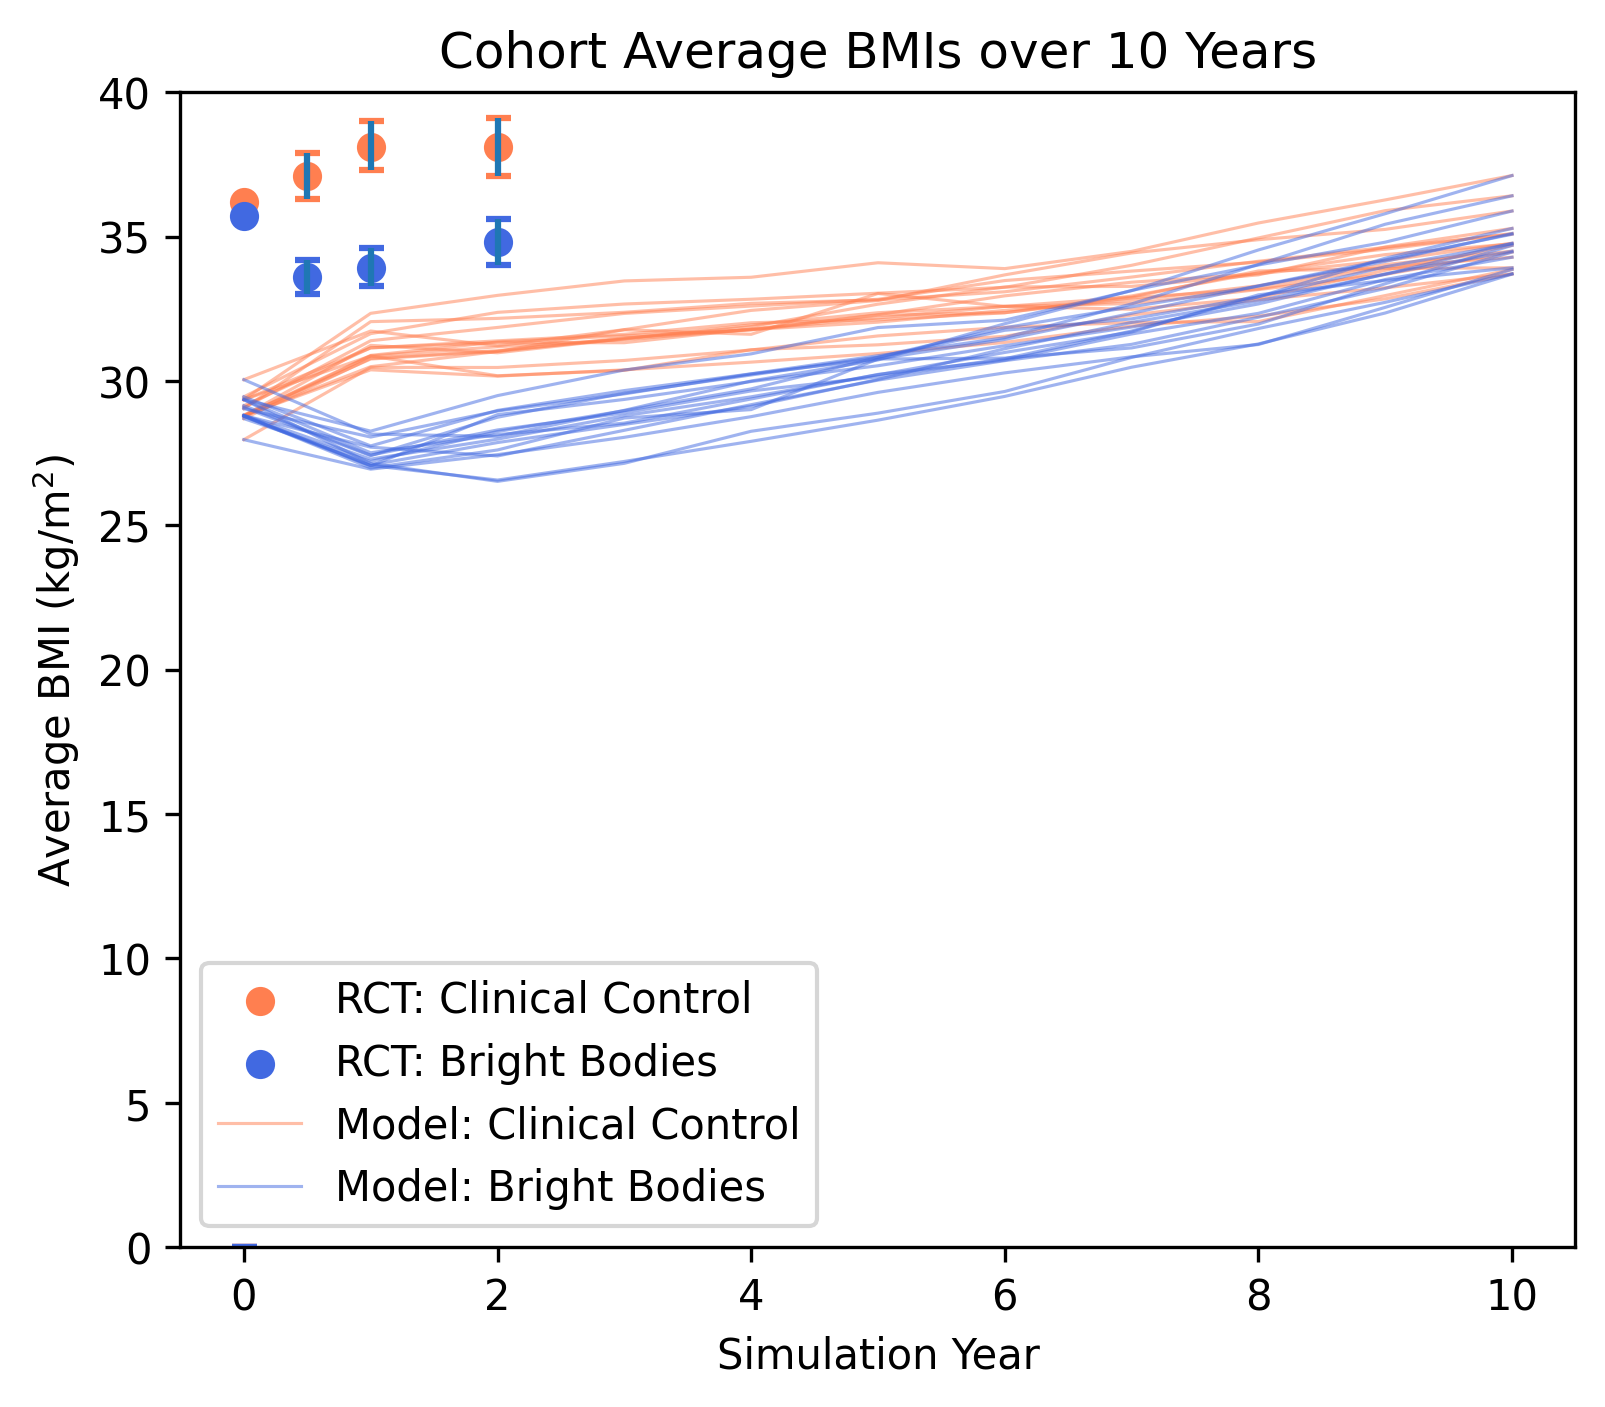
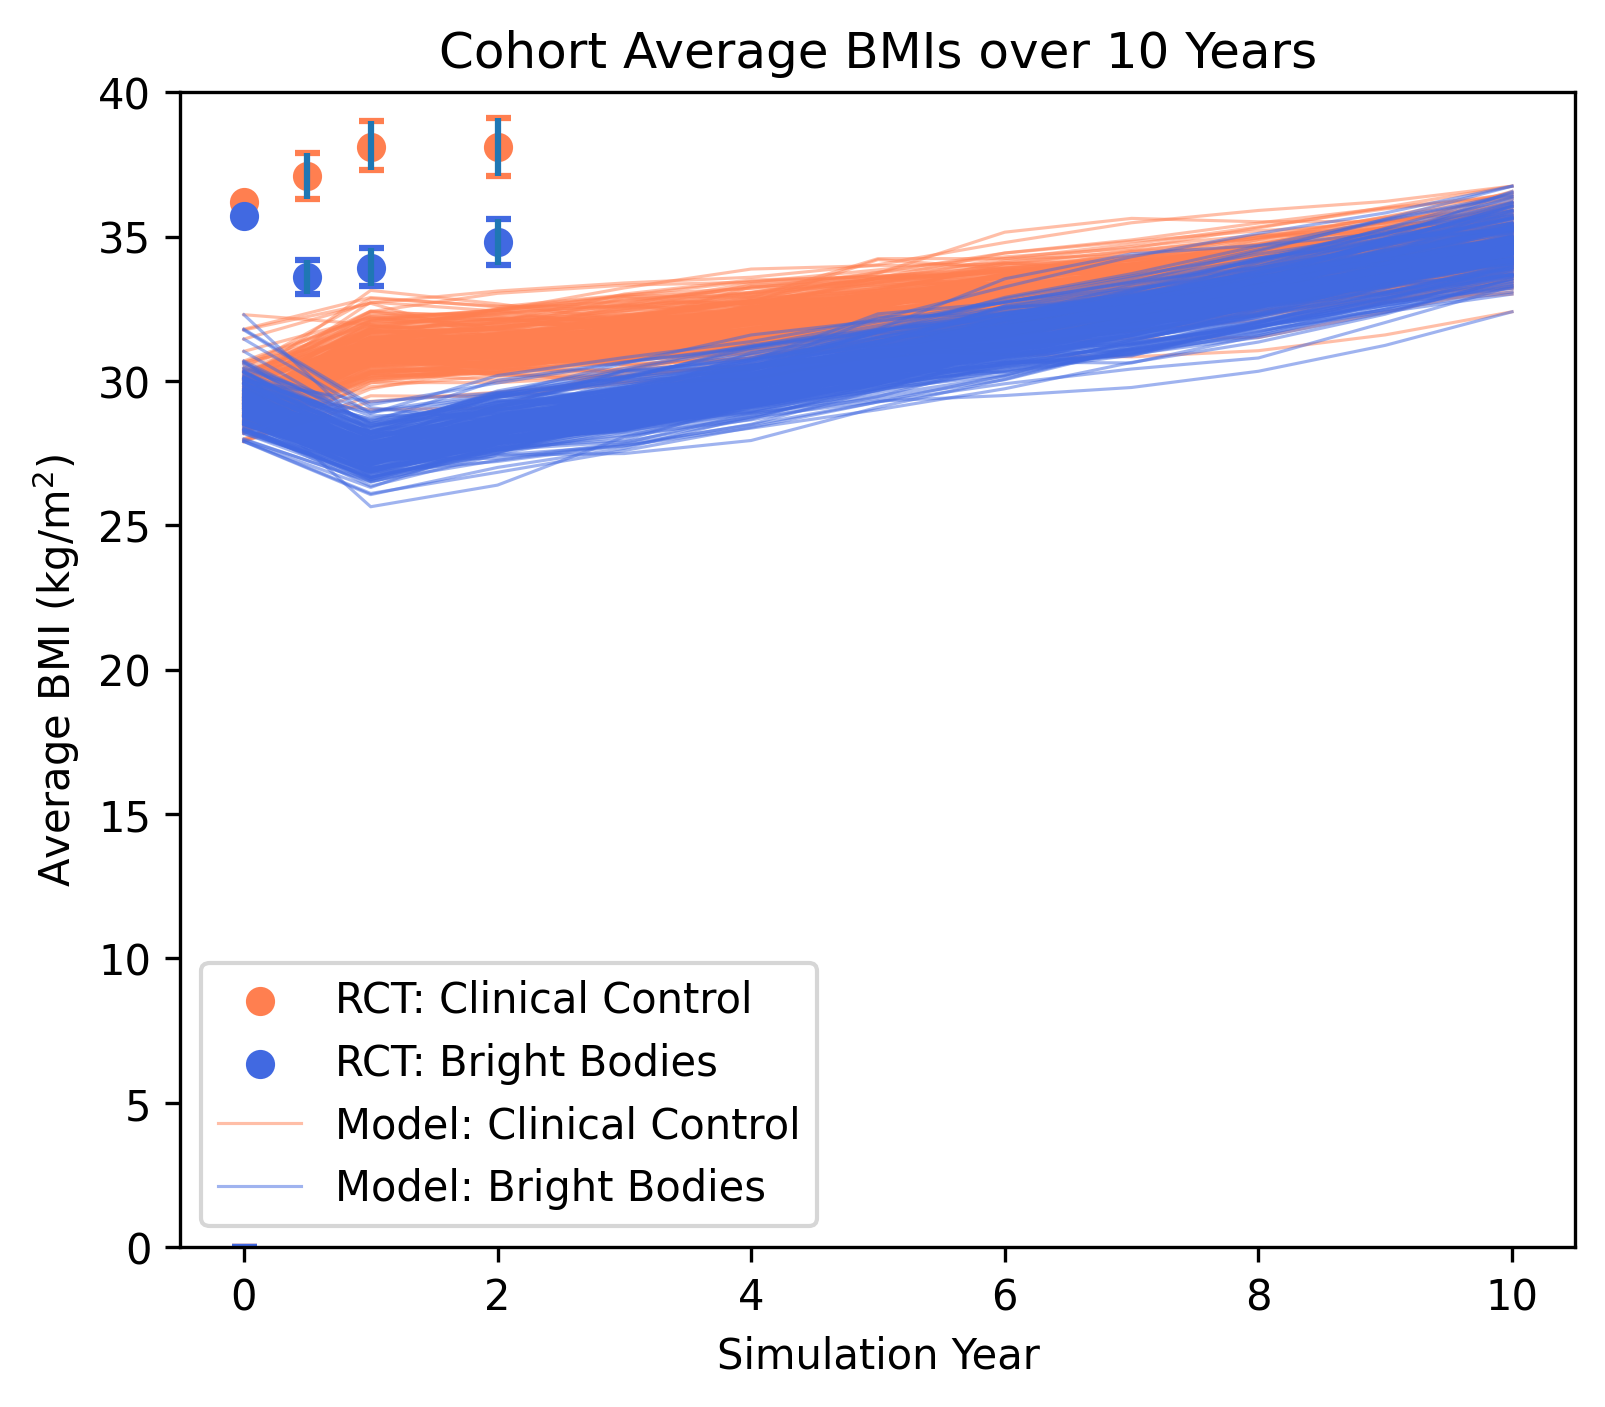
pooled estimate

Changed region(s): [[0.1246, 0.1222, 0.9657, 0.3667]]

diff --git a/bright_bodies_support/Plots.py b/bright_bodies_support/Plots.py
@@ -1,11 +1,12 @@
+import deampy.plots.sample_paths as Path
 import matplotlib.pyplot as plt
 import numpy
+from deampy.plots.plot_support import output_figure
 from matplotlib import collections as matcoll
+from scipy import stats
 
 import bright_bodies_support.CEA as CEA
 import bright_bodies_support.Inputs as I
-import deampy.plots.sample_paths as Path
-from deampy.plots.plot_support import output_figure
 
 # Yearly difference in BMI under control and bright bodies
 YEARLY_DIFF_BMI_CONTROL = [1.9, 0.0]
@@ -14,6 +15,18 @@ YEARLY_DIFF_BMI_CONTROL_UB = [.9, 1.0]
 YEARLY_DIFF_BMI_BB = [-1.8, 0.9]
 YEARLY_DIFF_BMI_BB_LB = [.6, .8]
 YEARLY_DIFF_BMI_BB_UB = [.7, .8]
+
+
+def print_k_test(data, mean, st_dev, message):
+
+    r = stats.kstest(data, stats.norm.cdf, args=(mean, st_dev))
+
+    print(message+': p-value {} \t means \t {} \t {} \t st_devs \t {} \t {}'.format(
+        round(r.pvalue, 3),
+        round(mean, 2),
+        round(numpy.average(data), 2),
+        round(st_dev, 2),
+        round(numpy.std(data), 2)))
 
 
 def add_yearly_change_in_bmi_to_ax(ax, sim_outcomes, intervention, color_model, color_data):
@@ -35,14 +48,33 @@ def add_yearly_change_in_bmi_to_ax(ax, sim_outcomes, intervention, color_model, 
         ys = YEARLY_DIFF_BMI_BB
         lbs = YEARLY_DIFF_BMI_BB_LB
         ubs = YEARLY_DIFF_BMI_BB_UB
+
         ax.set_title('Bright Bodies')
         ax.text(-0.05, 1.025, 'B)', transform=ax.transAxes, size=11, weight='bold')
+
+        # KS test for equivalency
+        hls = 0.5 * (numpy.array(YEARLY_DIFF_BMI_BB_UB) + numpy.array(YEARLY_DIFF_BMI_BB_LB))
+        st_dev = hls / 1.96
+        print_k_test(data=year_one_vs_zero, mean=ys[0], st_dev=st_dev[0],
+                     message='BB Y1 to Y0:')
+        print_k_test(data=year_two_vs_one, mean=ys[1], st_dev=st_dev[1],
+                     message='BB Y2 to Y1:')
+
     else:
         ys = YEARLY_DIFF_BMI_CONTROL
         lbs = YEARLY_DIFF_BMI_CONTROL_LB
         ubs = YEARLY_DIFF_BMI_CONTROL_UB
+
         ax.set_title('Clinical Control')
         ax.text(-0.05, 1.025, 'A)', transform=ax.transAxes, size=11, weight='bold')
+
+        # KS test for equivalency
+        hls = 0.5 * (numpy.array(YEARLY_DIFF_BMI_CONTROL_UB) + numpy.array(YEARLY_DIFF_BMI_CONTROL_LB))
+        st_dev = hls / 1.96
+        print_k_test(data=year_one_vs_zero, mean=ys[0], st_dev=st_dev[0],
+                     message='CC Y1 to Y0:')
+        print_k_test(data=year_two_vs_one, mean=ys[1], st_dev=st_dev[1],
+                     message='CC Y2 to Y1:')
 
     # adding simulation outcomes
     for this_y in year_one_vs_zero:
@@ -50,13 +82,18 @@ def add_yearly_change_in_bmi_to_ax(ax, sim_outcomes, intervention, color_model, 
     for this_y in year_two_vs_one:
         ax.scatter(2, this_y, color=color_model, marker='_', s=200, alpha=0.5, linewidth=0.5, zorder=1)
 
+    # adding mean from model
+    ax.scatter([1, 2],
+               [numpy.average(year_one_vs_zero), numpy.average(year_two_vs_one)],
+               marker='_', color='k', label='Model-Mean', s=200, zorder=2)
+
     # adding RCT data
     ax.scatter([1, 2], ys, color=color_data, label='RCT', zorder=2)
     # adding error bars
     ax.errorbar([1, 2], ys, yerr=(lbs, ubs), fmt='none', capsize=4, color=color_data, zorder=2)
 
     handles, labels = ax.get_legend_handles_labels()
-    ax.legend(handles[::-1][:2], labels[::-1][:2], loc='upper right')
+    ax.legend(handles[::-1][:3], labels[::-1][:3], loc='upper right', fontsize=8)
     #ax.legend(loc='upper right')
 
     ax.axhline(y=0, color='k', ls='--', linewidth=0.75)

diff --git a/bright_bodies_support/Inputs.py b/bright_bodies_support/Inputs.py
@@ -26,7 +26,7 @@ class ModelInputs:
         self.simInit = 0.00001  # (years) initialization period to create the cohort
         self.simDuration = 10   # (years) simulation duration
         self.popSize = 90     # population size of each cohort
-        self.nCohorts = 16      # number of cohorts
+        self.nCohorts = 200      # number of cohorts
 
         # to discount outcomes and calculate the current value of old costs
         self.currentYear = 2020
@@ -34,12 +34,12 @@ class ModelInputs:
 
         # multipliers to adjust BMI trajectories
         self.dictAdjFactorCC = {
-            'Control': [1.049, 0.01],  # all years
+            'Control': [1.045, 0.008],  # all years
         }
         # effectiveness of bright bodies (BMI under BB = effectiveness * BMI under control)
         self.dictEffBB = {
-            'BB Year 1': [0.88, 0.01],
-            'BB Year 2': [0.9, 0.01]
+            'BB Year 1': [0.88, 0.008],
+            'BB Year 2': [0.91, 0.008]
         }
 
         # fringe

diff --git a/bright_bodies_analysis/CompareAlternatives.py b/bright_bodies_analysis/CompareAlternatives.py
@@ -19,9 +19,10 @@ COLOR_DATA = 'purple'
 
 
 # this line is needed to avoid errors that occur on Windows computers when running the model in parallel
-def compare(scenario):
+def compare(scenario, only_to_calibrate=False):
     """
     :param scenario: effect maintenance scenario
+    :param only_to_calibrate: set to True if the purpose is only to calibrate the model
     """
 
     # change the working directory to the root directory
@@ -71,6 +72,9 @@ def compare(scenario):
                      color_model=COLOR_MODEL,
                      color_data=COLOR_DATA,
                      figsize=(5.5, 5))
+
+    if only_to_calibrate:
+        return
 
     # fig 3
     Path.plot_sets_of_sample_paths(

diff --git a/yom/OutputAnalysis.py b/yom/OutputAnalysis.py
@@ -78,3 +78,7 @@ def generate_simulation_outputs(simulated_multi_cohort, age_sex_dist, pyramid_x_
           simulated_multi_cohort.multiSimOutputs.get_mean_interval_change_in_bmi(year=1, deci=1))
     print('Average change in BMI at year 2 with respect to the baseline (and 95% uncertainty interval)',
           simulated_multi_cohort.multiSimOutputs.get_mean_interval_change_in_bmi(year=2, deci=1))
+
+
+
+

diff --git a/bright_bodies_analysis/Calibrate.py b/bright_bodies_analysis/Calibrate.py
@@ -1,0 +1,6 @@
+import bright_bodies_support.Inputs as I
+from CompareAlternatives import compare
+
+if __name__ == '__main__':
+    compare(scenario=I.EffectMaintenance.DEPREC, only_to_calibrate=True)
+
